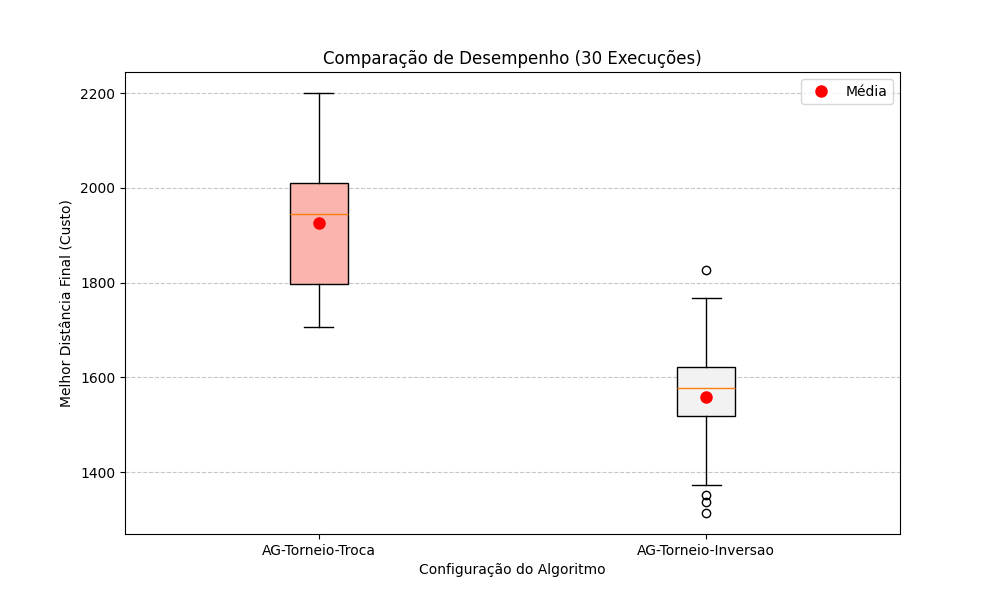
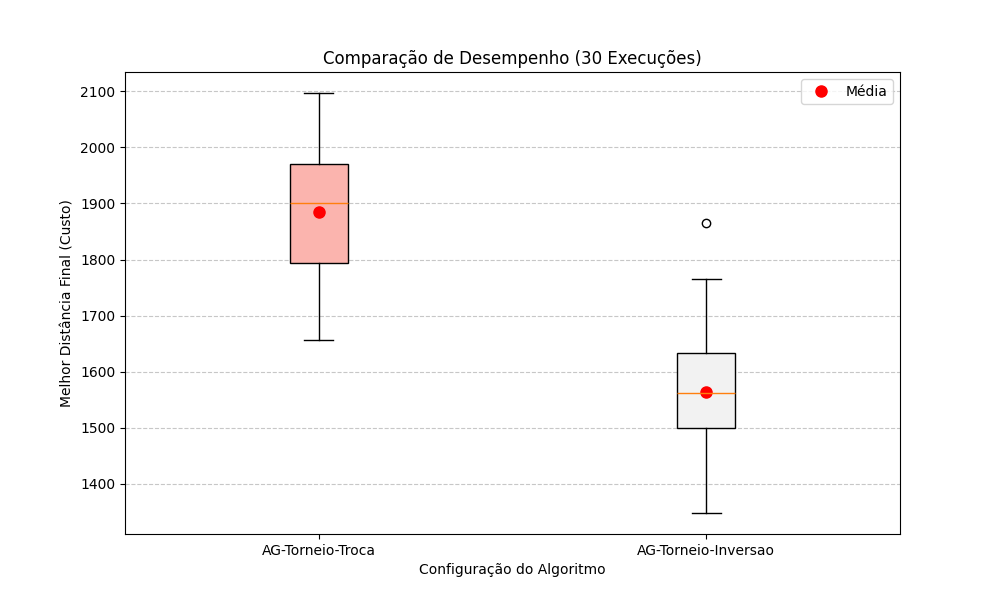
feat: Adiciona plotagem da rota final ao framework de visualização

diff --git a/main.py b/main.py
@@ -8,27 +8,18 @@ from colonia_formigas import ACO
 from recozimento_simulado import RecozimentoSimulado 
 
 # --- 1. DEFINIÇÃO DOS EXPERIMENTOS ---
-#
-#    Este é o seu novo "Painel de Controle".
-#    Basta adicionar ou remover dicionários desta lista para
-#    rodar diferentes análises.
-#
-# -----------------------------------------------------------------
 NUM_EXECUCOES = 30
 ARQUIVO_DADOS = "data/st70.tsp"
 NUM_GERACOES = 200      # (AG, ACO)
 TAMANHO_POPULACAO = 50  # (AG, ACO)
 
-# --- Lista de Experimentos para Executar ---
-
-# Exemplo para Análise 3: Mutação (Troca vs. Inversão)
 experimentos_para_rodar = [
     {
         "nome": "AG-Torneio-Troca",
         "algoritmo": "AG",
         "params": {
             "metodo_selecao": "torneio",
-            "metodo_mutacao": "troca", # <-- A MUDANÇA
+            "metodo_mutacao": "troca",
             "taxa_elitismo": 0.05,
             "taxa_mutacao": 0.01,
             "metodo_crossover": "ox"
@@ -39,22 +30,13 @@ experimentos_para_rodar = [
         "algoritmo": "AG",
         "params": {
             "metodo_selecao": "torneio",
-            "metodo_mutacao": "inversao", # <-- A MUDANÇA
+            "metodo_mutacao": "inversao",
             "taxa_elitismo": 0.05,
             "taxa_mutacao": 0.01,
             "metodo_crossover": "ox"
         }
     }
 ]
-
-# (Para rodar a Análise 2 (Seleção), você faria uma lista como acima,
-#  mas mudando 'metodo_selecao' entre 'torneio' e 'roleta')
-
-# (Para rodar a Análise 9 (Comparação Cruzada), sua lista seria:
-#  [ {"nome": "AG-Final", "algoritmo": "AG", ...},
-#    {"nome": "ACO-Final", "algoritmo": "ACO", ...},
-#    {"nome": "SA-Final", "algoritmo": "SA", ...} ]
-# )
 
 # -----------------------------------------------------------------
 
@@ -70,6 +52,10 @@ print("---------------------------------")
 resultados_para_boxplot = {}
 resultados_para_convergencia = {}
 
+# NOVO: Variáveis para guardar a MELHOR ROTA DE TODAS
+melhor_rota_geral = None
+melhor_distancia_geral = float('inf')
+
 for exp in experimentos_para_rodar:
     nome_exp = exp["nome"]
     algoritmo = exp["algoritmo"]
@@ -81,10 +67,11 @@ for exp in experimentos_para_rodar:
     historico_30_execucoes = []
     
     for i in range(NUM_EXECUCOES):
-        print(f"--- Execução {i + 1} de {NUM_EXECUCOES} ---", end="") # 'end=""' para log em uma linha
+        print(f"--- Execução {i + 1} de {NUM_EXECUCOES} ---", end="") 
         start_time = time.time()
         
         distancia_final = float('inf')
+        rota_final = []
         
         if algoritmo == "AG":
             params = exp["params"]
@@ -100,6 +87,7 @@ for exp in experimentos_para_rodar:
             )
             melhor_solucao = ag.executar() 
             distancia_final = melhor_solucao.distancia
+            rota_final = melhor_solucao.rota # Salva a rota
             historico_30_execucoes.append(ag.historico_melhores)
 
         elif algoritmo == "ACO":
@@ -107,17 +95,17 @@ for exp in experimentos_para_rodar:
                 cidades=minhas_cidades,
                 num_formigas=TAMANHO_POPULACAO,
                 num_iteracoes=NUM_GERACOES,
-                alfa=1.0, beta=5.0, rho=0.1, Q=100 # (Valores padrão)
+                alfa=1.0, beta=5.0, rho=0.1, Q=100
             )
-            _, distancia_final = aco.executar()
+            rota_final, distancia_final = aco.executar() # Salva a rota
             historico_30_execucoes.append(aco.historico_melhores)
 
         elif algoritmo == "SA":
             sa = RecozimentoSimulado(
                 cidades=minhas_cidades,
-                temp_inicial=10000, temp_final=1, taxa_resfriamento=0.995 # (Valores padrão)
+                temp_inicial=10000, temp_final=1, taxa_resfriamento=0.995
             )
-            _, distancia_final = sa.executar()
+            rota_final, distancia_final = sa.executar() # Salva a rota
             historico_30_execucoes.append(sa.historico_melhores)
         
         end_time = time.time()
@@ -125,6 +113,11 @@ for exp in experimentos_para_rodar:
         
         resultados_distancia.append(distancia_final)
         resultados_tempo.append(tempo_execucao)
+        
+        # NOVO: Verifica se esta é a melhor rota GERAL
+        if distancia_final < melhor_distancia_geral:
+            melhor_distancia_geral = distancia_final
+            melhor_rota_geral = rota_final
         
         print(f" -> Distância = {distancia_final:.2f} (Tempo: {tempo_execucao:.2f}s)")
 
@@ -150,5 +143,11 @@ for nome_exp, historico in resultados_para_convergencia.items():
 # 5.2. Gerar UM Boxplot comparando TODOS os experimentos
 nome_boxplot = "boxplot_comparativo.png"
 visualizacao.plotar_boxplot_comparativo(resultados_para_boxplot, nome_boxplot)
+
+# 5.3. NOVO: Gerar UM gráfico da MELHOR ROTA encontrada
+if melhor_rota_geral:
+    visualizacao.plotar_rota(melhor_rota_geral, minhas_cidades, "melhor_rota_geral.png")
+else:
+    print("Nenhuma rota foi gerada para plotar.")
 
 print("\nTodos os experimentos e gráficos foram concluídos.")

diff --git a/visualizacao.py b/visualizacao.py
@@ -101,3 +101,49 @@ def plotar_boxplot_comparativo(dados_experimentos, nome_arquivo="boxplot.png"):
     plt.close() # Fecha a figura para economizar memória
     
     print("Boxplot salvo com sucesso.")
+    
+def plotar_rota(melhor_rota, cidades, nome_arquivo="rota_final.png"):
+    """
+    Gera e salva um gráfico de dispersão (scatter plot) mostrando as
+    cidades e a melhor rota encontrada.
+
+    :param melhor_rota: Uma lista de índices (a permutação) da melhor rota.
+    :param cidades: A lista de tuplas de coordenadas (x, y).
+    :param nome_arquivo: Nome do arquivo para salvar o gráfico.
+    """
+    
+    print(f"\nGerando gráfico da melhor rota... salvando em {nome_arquivo}")
+
+    plt.figure(figsize=(12, 8))
+
+    # [Image of a TSP route visualization for 70 cities]
+    
+    # 1. Cria uma lista de coordenadas na ordem da melhor rota
+    rota_ordenada = [cidades[i] for i in melhor_rota]
+    
+    # Adiciona a cidade inicial ao final para fechar o loop
+    rota_ordenada.append(rota_ordenada[0])
+    
+    # 2. Pega as coordenadas X e Y separadamente
+    #    zip(*rota_ordenada) é um truque do Python para "descompactar"
+    #    a lista de tuplas [(x1,y1), (x2,y2)] em duas listas: [x1,x2] e [y1,y2]
+    coordenadas_x, coordenadas_y = zip(*rota_ordenada)
+
+    # 3. Plota as linhas da rota
+    plt.plot(coordenadas_x, coordenadas_y, marker='o', linestyle='-', markersize=5, label="Rota")
+    
+    # 4. Plota a cidade inicial (ponto vermelho)
+    plt.plot(coordenadas_x[0], coordenadas_y[0], 'ro', markersize=10, label="Cidade Inicial/Final")
+
+    # Configurações do gráfico
+    plt.title("Visualização da Melhor Rota Encontrada")
+    plt.xlabel("Coordenada X")
+    plt.ylabel("Coordenada Y")
+    plt.legend()
+    plt.grid(True)
+    
+    # Salva o gráfico em um arquivo
+    plt.savefig(nome_arquivo)
+    plt.close() # Fecha a figura para economizar memória
+    
+    print("Gráfico da rota salvo com sucesso.")
